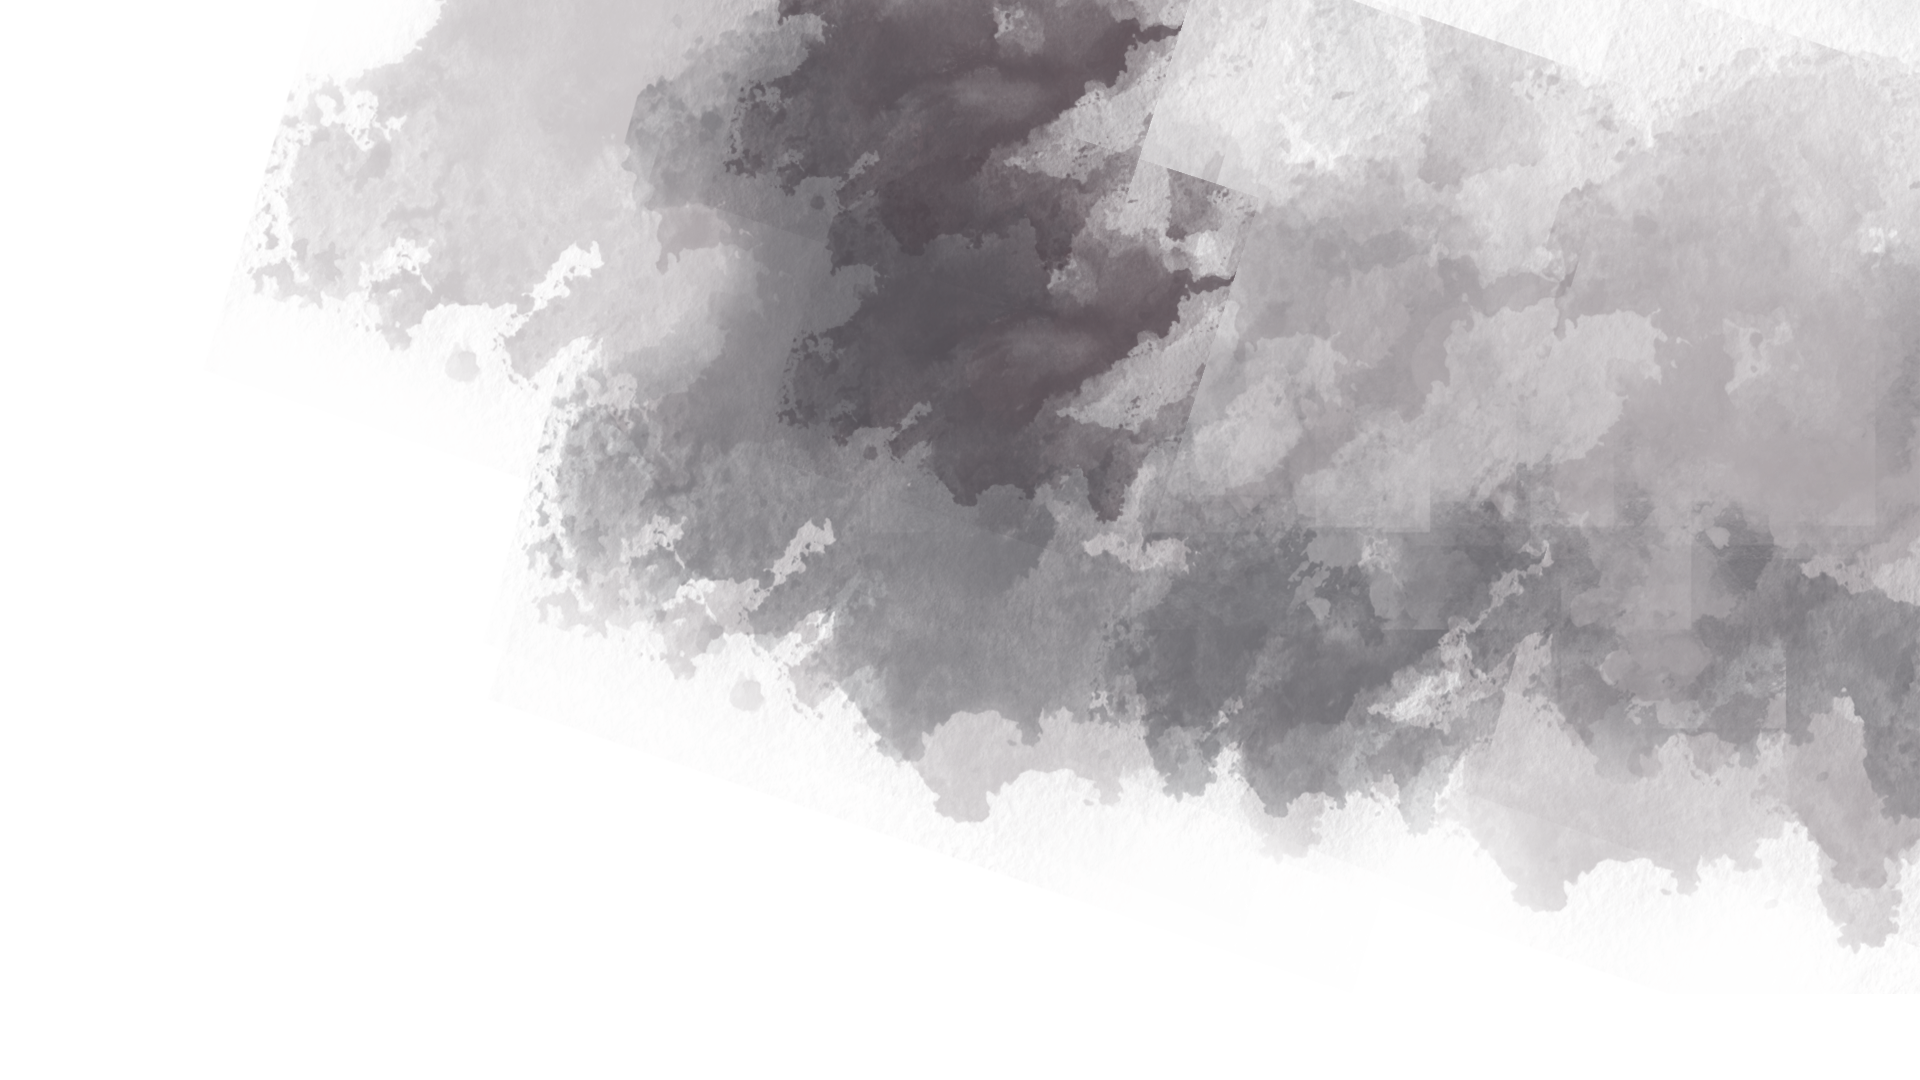
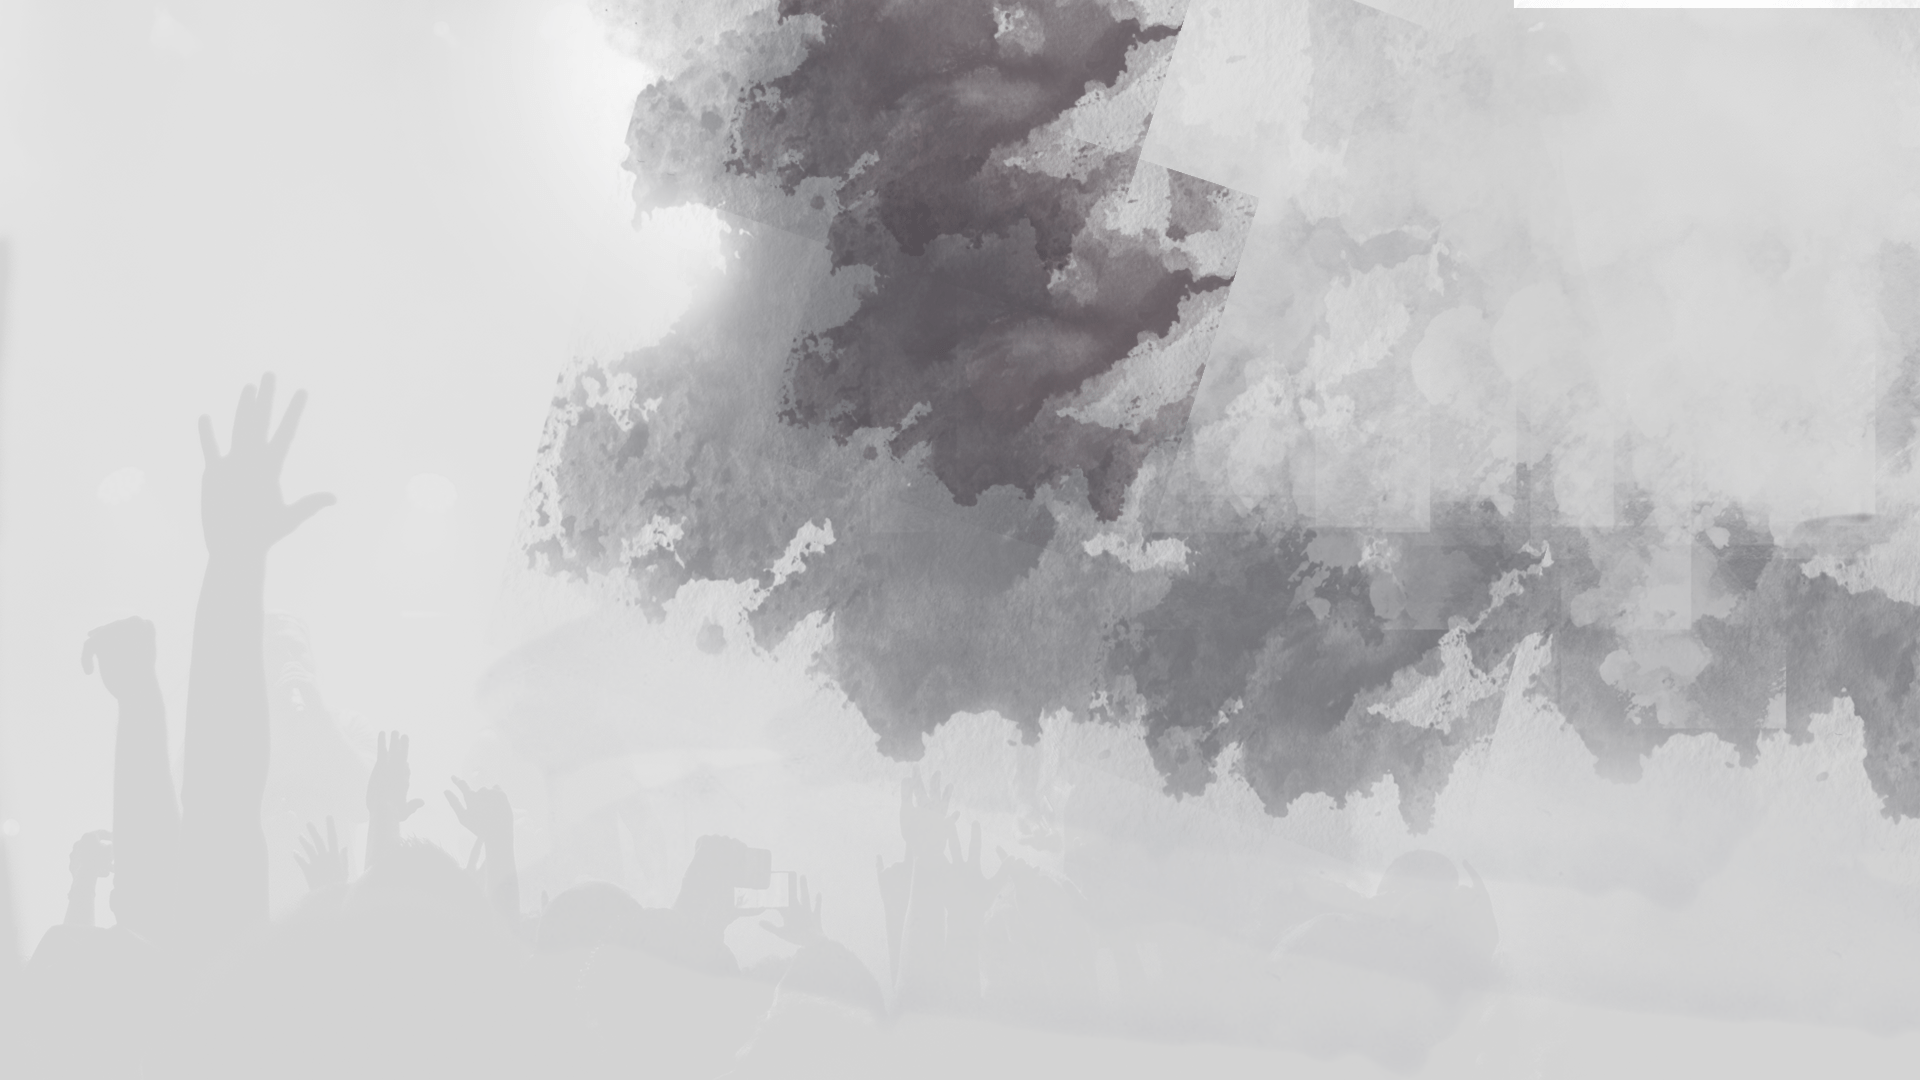
Responsive BG image

diff --git a/index.html b/index.html
@@ -89,9 +89,9 @@
 </style>
 </head>
 
-<body class="profile-page sidebar-collapse page-header header-filter" data-parallax="true" >
-  <img src="assets/img/baseimage.png" style="height:100vh; width: 100%;position: relative;z-index:0;"/>
-  <img src="assets/img/mask.png" style="height:100vh; width: 100%;position: absolute;z-index:1;"/>
+<body class="profile-page sidebar-collapse" data-parallax="true" style="background-image: url('assets/img/mask.png');height:100vh; background-size: cover; overflow: hidden; z-index: 2;">
+  <!-- <img src="assets/img/baseimage.png" style="height:100vh; width: 100%;position: relative;z-index:0;"/> -->
+  <!-- <img class="img-fluid" src="assets/img/mask.png" style="height:100%; width: 100%; position: absolute; top: 0; right: 0; z-index:1;"/> -->
   <ul class="slideshow">
      <li></li>
      <li></li>
